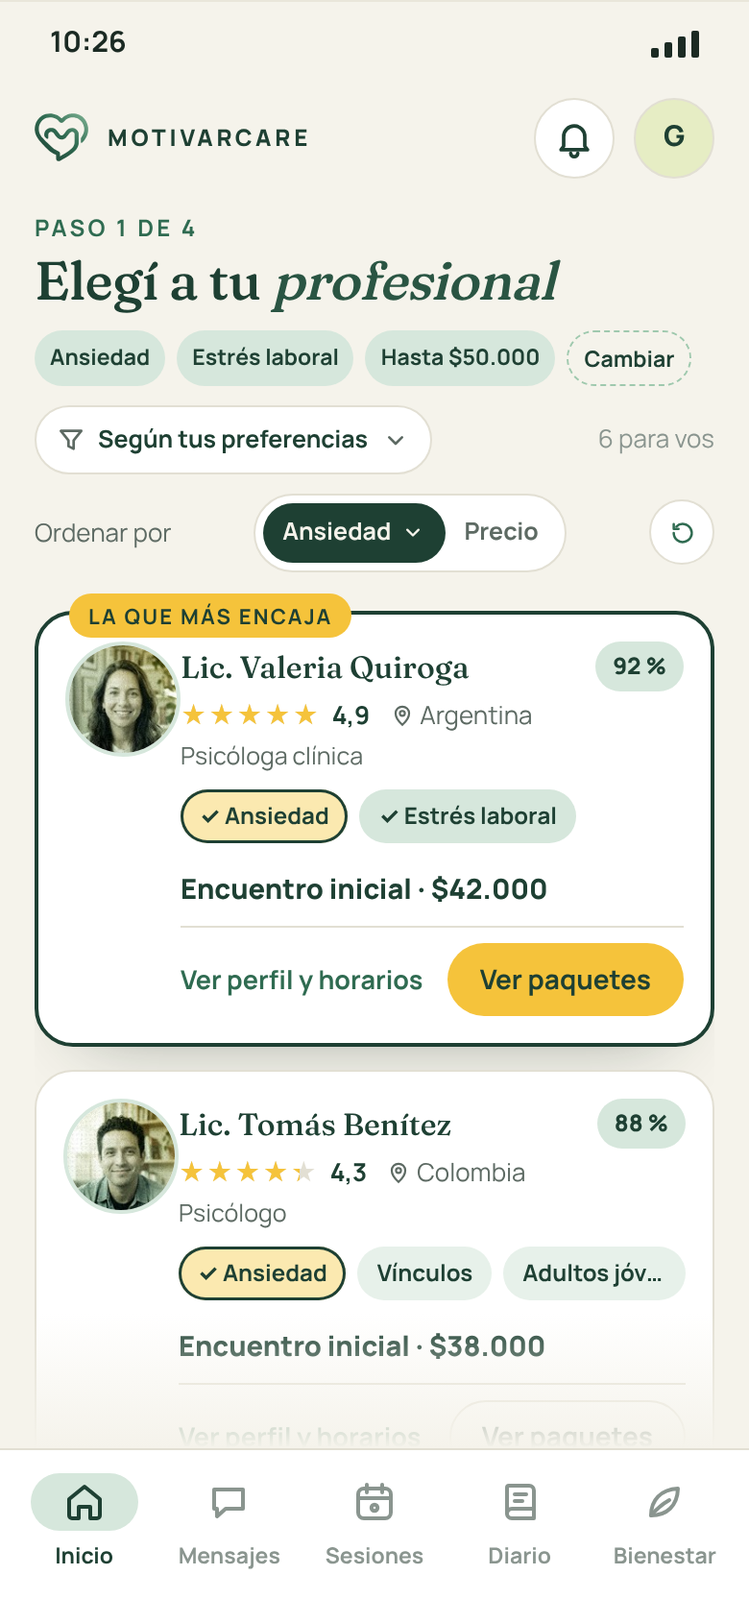
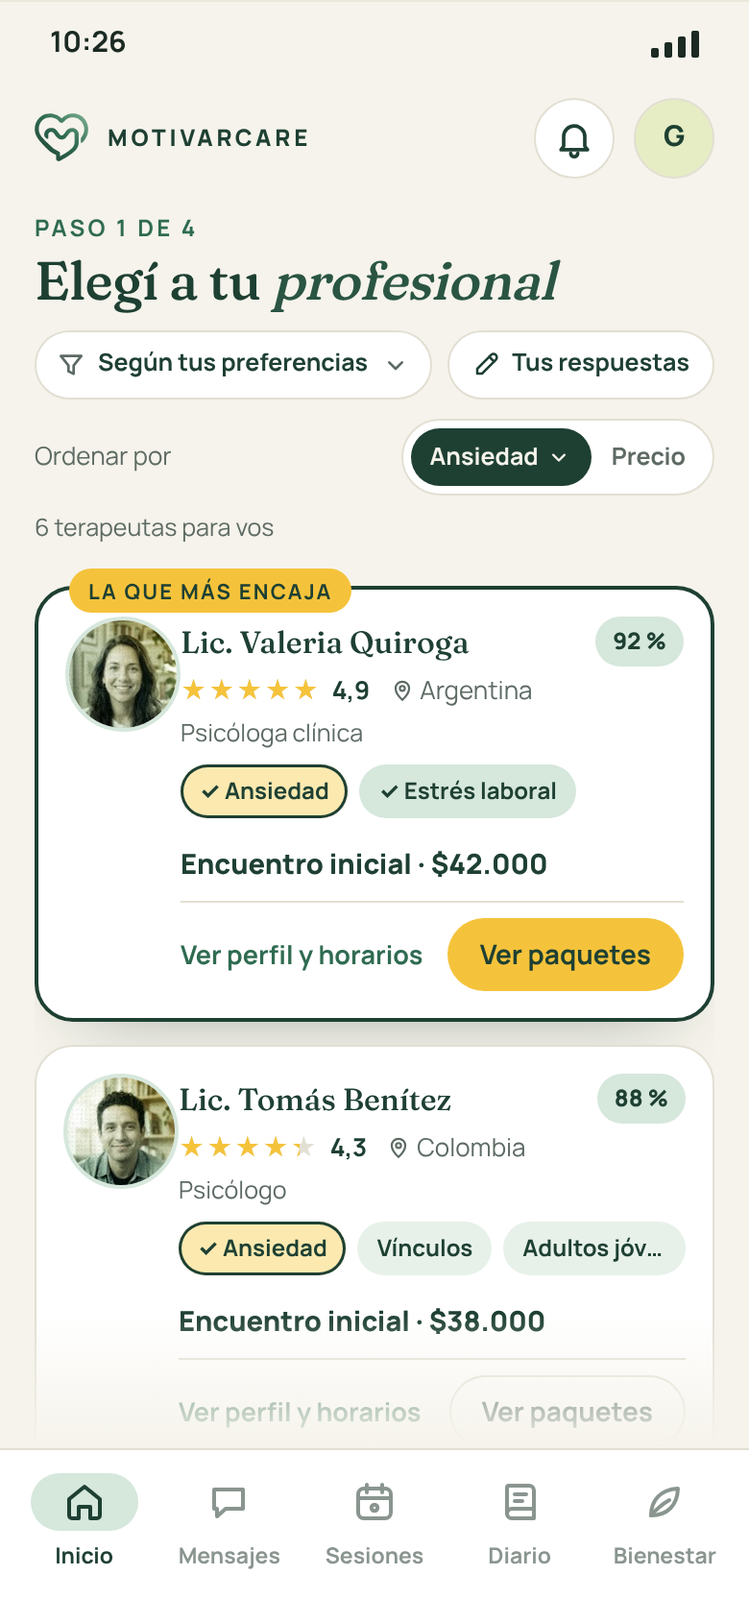
Ronda #2: Buscador sin «Limpiar», cantidad sobre las tarjetas y «Tus respuestas» en el teléfono
Claude-Session: https://claude.ai/code/session_01WU1DRuLLvKJwMVuiPWLics

Changed region(s): [[0.0308, 0.1846, 0.9538, 0.8923], [0.7692, 0.3692, 0.9538, 0.4308], [0.9231, 0.2462, 0.9538, 0.2769]]

diff --git a/web/public/app-usuario/ronda-2.html b/web/public/app-usuario/ronda-2.html
@@ -844,6 +844,10 @@ ul.lista-simple { padding: 0; }
 .limpiar.off { color: var(--tinta-tenue); opacity: .55; }
 .limpiar.solo-ico { width: 34px; height: 34px; justify-content: center; border-radius: 50%; border: 1px solid var(--linea); background: var(--superficie); flex: none; }
 .filtro-wrap { position: relative; display: inline-flex; }
+.cuenta-lista { font-size: 13px; color: var(--tinta-suave); margin: -4px 0 12px; }
+.tel .cuenta-lista { margin: -2px 0 0; font-size: 12.5px; }
+.mis-resp { display: inline-flex; align-items: center; gap: 6px; height: 36px; padding: 0 12px; border-radius: 99px; border: 1px solid var(--linea); background: var(--superficie); font-size: 12.5px; font-weight: 700; color: var(--bosque); white-space: nowrap; text-decoration: none; flex: none; }
+.mis-resp .ico { width: 15px; height: 15px; }
 .op-esp.elegida-sutil .radio { border-color: var(--bosque); }
 .op-esp.elegida-sutil .radio::after { content: ''; width: 8px; height: 8px; border-radius: 50%; background: var(--bosque); }
 .el-barra.r2 { flex-wrap: nowrap; }
@@ -891,6 +895,7 @@ ul.lista-simple { padding: 0; }
   <symbol id="i-check" viewBox="0 0 24 24"><path d="m5 12.5 4.5 4.5L19 7.5"/></symbol>
   <symbol id="i-atras" viewBox="0 0 24 24"><path d="M15 6l-6 6 6 6"/></symbol>
   <symbol id="i-limpiar" viewBox="0 0 24 24"><path d="M4.5 12a7.5 7.5 0 1 0 2.2-5.3"/><path d="M4.5 4.5v4h4"/></symbol>
+  <symbol id="i-editar" viewBox="0 0 24 24"><path d="M4 20h4L19.5 8.5a2.1 2.1 0 0 0-4-4L4 16z"/><path d="M14 6l4 4"/></symbol>
   <symbol id="i-cerrar" viewBox="0 0 24 24"><path d="M6 6l12 12M18 6 6 18"/></symbol>
   <symbol id="i-clip" viewBox="0 0 24 24"><path d="M19 11.5 12 18.5a4.5 4.5 0 0 1-6.4-6.4l7.4-7.4a3 3 0 0 1 4.2 4.2l-7.4 7.4a1.5 1.5 0 0 1-2.1-2.1l6.7-6.7"/></symbol>
   <symbol id="i-mic" viewBox="0 0 24 24"><rect x="9" y="3.5" width="6" height="11" rx="3"/><path d="M5.5 11.5a6.5 6.5 0 0 0 13 0M12 18v2.5"/></symbol>
@@ -1677,11 +1682,11 @@ ul.lista-simple { padding: 0; }
         <div>
           <div class="el-barra r2">
             
-            <span class="filtro-wrap"><span class="filtro"><svg viewBox="0 0 24 24" class="ico chico"><path d="M4 5h16l-6 7.5V19l-4-2v-4.5z"/></svg>Filtrar: <b>Según tus preferencias</b><svg class="ico chico"><use href="#i-abajo"/></svg></span><div class="menu-esp menu-filtro"><span class="menu-tit">Filtrar por tipo y enfoque</span><span class="op-esp elegida-sutil"><i class="radio"></i><span><b>Según tus preferencias</b><small>Tiene en cuenta el tipo y enfoque que elegiste</small></span></span><span class="sep-esp">Sumá una terapia complementaria</span><span class="op-esp"><i class="radio"></i>Terapia de pareja</span><span class="sep-esp">¿Querés probar otro enfoque?</span><span class="op-esp"><i class="radio"></i>Psicodinámico o psicoanalítico</span><span class="op-esp"><i class="radio"></i>Humanista</span><span class="op-esp"><i class="radio"></i>Sistémico o familiar</span><span class="nota-esp">Se elige una sola opción, y es la que muestra el control. Los terapeutas que no coinciden no se muestran. Para dar prioridad a una especialidad, usá "Ordenar por".</span></div></span><span class="tenue cuenta-res">6 terapeutas</span><a class="limpiar off" title="No hay nada para limpiar"><svg class="ico chico"><use href="#i-limpiar"/></svg>Limpiar</a>
+            <span class="filtro-wrap"><span class="filtro"><svg viewBox="0 0 24 24" class="ico chico"><path d="M4 5h16l-6 7.5V19l-4-2v-4.5z"/></svg>Filtrar: <b>Según tus preferencias</b><svg class="ico chico"><use href="#i-abajo"/></svg></span><div class="menu-esp menu-filtro"><span class="menu-tit">Filtrar por tipo y enfoque</span><span class="op-esp elegida-sutil"><i class="radio"></i><span><b>Según tus preferencias</b><small>Tiene en cuenta el tipo y enfoque que elegiste</small></span></span><span class="sep-esp">Sumá una terapia complementaria</span><span class="op-esp"><i class="radio"></i>Terapia de pareja</span><span class="sep-esp">¿Querés probar otro enfoque?</span><span class="op-esp"><i class="radio"></i>Psicodinámico o psicoanalítico</span><span class="op-esp"><i class="radio"></i>Humanista</span><span class="op-esp"><i class="radio"></i>Sistémico o familiar</span><span class="nota-esp">Se elige una sola opción, y es la que muestra el control. Los terapeutas que no coinciden no se muestran. Para dar prioridad a una especialidad, usá "Ordenar por".</span></div></span>
             <span class="orden-wrap"><span class="et-orden">Ordenar por</span><span class="el-orden"><span class="on">Compatibilidad<svg class="ico chico cl"><use href="#i-abajo"/></svg></span><span>Precio</span></span>
             </span>
           </div>
-          <div style="position:relative"><div class="el-lista"><article class="tarjeta-pro mejor"><span class="mejor-et">La que más encaja</span><img class="avatar-pro" src="../landing/img/profesionales/valeria-quiroga.jpg" alt="" width="60" height="60">
+          <p class="cuenta-lista">6 terapeutas · todos con matrícula verificada</p><div style="position:relative"><div class="el-lista"><article class="tarjeta-pro mejor"><span class="mejor-et">La que más encaja</span><img class="avatar-pro" src="../landing/img/profesionales/valeria-quiroga.jpg" alt="" width="60" height="60">
   <div class="info">
     <div class="nombre"><b>Lic. Valeria Quiroga</b><span class="compat">92 %</span></div>
     <div class="valoracion"><span class="estrellas" style="--v: 98%"><i>★★★★★</i><i>★★★★★</i></span><b>4,9</b><span class="pais"><svg viewBox="0 0 24 24"><path d="M12 21s-6.5-5.6-6.5-11a6.5 6.5 0 0 1 13 0c0 5.4-6.5 11-6.5 11z"/><circle cx="12" cy="10" r="2.4"/></svg>Argentina</span><span class="exp-l">· 9 años de experiencia</span></div>
@@ -1763,10 +1768,10 @@ ul.lista-simple { padding: 0; }
   </div>
   <div class="cuerpo-tel" style="gap:10px">
     <div class="saludo" style="margin:0;gap:4px"><span class="t-fecha">Paso 1 de 4</span><h1 class="t1" style="font-size:28px">Elegí a tu <em>profesional</em></h1></div>
-    <div class="el-tags" style="flex-wrap:nowrap"><span>Ansiedad</span><span>Estrés laboral</span><span>Hasta $50.000</span><span style="background:transparent;border:1.5px dashed var(--salvia-fuerte)">Cambiar</span></div>
-    <div class="fila-ctl"><span class="filtro"><svg viewBox="0 0 24 24" class="ico chico"><path d="M4 5h16l-6 7.5V19l-4-2v-4.5z"/></svg><b>Según tus preferencias</b><svg class="ico chico"><use href="#i-abajo"/></svg></span><span class="tenue">6 para vos</span></div>
-    <div class="fila-ctl"><span class="et-orden">Ordenar por</span><span class="el-orden"><span class="on">Compatibilidad<svg class="ico chico"><use href="#i-abajo"/></svg></span><span>Precio</span></span><a class="limpiar off solo-ico" aria-label="Limpiar"><svg class="ico chico"><use href="#i-limpiar"/></svg></a></div>
-    <div class="el-lista-tel"><article class="tarjeta-pro mejor"><span class="mejor-et">La que más encaja</span><img class="avatar-pro" src="../landing/img/profesionales/valeria-quiroga.jpg" alt="" width="60" height="60">
+    
+    <div class="fila-ctl"><span class="filtro"><svg viewBox="0 0 24 24" class="ico chico"><path d="M4 5h16l-6 7.5V19l-4-2v-4.5z"/></svg><b>Según tus preferencias</b><svg class="ico chico"><use href="#i-abajo"/></svg></span><a class="mis-resp"><svg class="ico chico"><use href="#i-editar"/></svg>Tus respuestas</a></div>
+    <div class="fila-ctl"><span class="et-orden">Ordenar por</span><span class="el-orden"><span class="on">Compatibilidad<svg class="ico chico"><use href="#i-abajo"/></svg></span><span>Precio</span></span></div>
+    <p class="cuenta-lista">6 terapeutas para vos</p><div class="el-lista-tel"><article class="tarjeta-pro mejor"><span class="mejor-et">La que más encaja</span><img class="avatar-pro" src="../landing/img/profesionales/valeria-quiroga.jpg" alt="" width="60" height="60">
   <div class="info">
     <div class="nombre"><b>Lic. Valeria Quiroga</b><span class="compat">92 %</span></div>
     <div class="valoracion"><span class="estrellas" style="--v: 98%"><i>★★★★★</i><i>★★★★★</i></span><b>4,9</b><span class="pais"><svg viewBox="0 0 24 24"><path d="M12 21s-6.5-5.6-6.5-11a6.5 6.5 0 0 1 13 0c0 5.4-6.5 11-6.5 11z"/><circle cx="12" cy="10" r="2.4"/></svg>Argentina</span><span class="exp-l">· 9 años de experiencia</span></div>
@@ -1838,12 +1843,12 @@ ul.lista-simple { padding: 0; }
         <div>
           <div class="el-barra r2">
             
-            <span class="filtro-wrap"><span class="filtro"><svg viewBox="0 0 24 24" class="ico chico"><path d="M4 5h16l-6 7.5V19l-4-2v-4.5z"/></svg>Filtrar: <b>Según tus preferencias</b><svg class="ico chico"><use href="#i-abajo"/></svg></span></span><span class="tenue cuenta-res">6 terapeutas</span><a class="limpiar"><svg class="ico chico"><use href="#i-limpiar"/></svg>Limpiar</a>
+            <span class="filtro-wrap"><span class="filtro"><svg viewBox="0 0 24 24" class="ico chico"><path d="M4 5h16l-6 7.5V19l-4-2v-4.5z"/></svg>Filtrar: <b>Según tus preferencias</b><svg class="ico chico"><use href="#i-abajo"/></svg></span></span>
             <span class="orden-wrap"><span class="et-orden">Ordenar por</span><span class="el-orden"><span class="on">Ansiedad<svg class="ico chico cl"><use href="#i-abajo"/></svg></span><span>Precio</span></span>
               <div class="menu-esp"><span class="menu-tit">Ordenar por compatibilidad</span><span class="op-esp"><i class="radio"></i><span><b>Según todas tus respuestas</b><small>Tiene en cuenta todo lo que nos contaste</small></span></span><span class="sep-esp">Dando prioridad a una especialidad · de tus respuestas</span><span class="op-esp on"><i class="radio"></i><b>Ansiedad</b></span><span class="op-esp"><i class="radio"></i><b>Estrés laboral</b></span><span class="sep-esp">Otras especialidades</span><span class="op-esp"><i class="radio"></i>Autoestima</span><span class="op-esp"><i class="radio"></i>Depresión</span><span class="op-esp"><i class="radio"></i>Duelo</span><span class="op-esp"><i class="radio"></i>Mindfulness y relajación</span><span class="op-esp"><i class="radio"></i>Sueño y descanso</span><span class="op-esp"><i class="radio"></i>Vínculos y pareja</span><span class="nota-esp">No es un filtro: los terapeutas de esa especialidad aparecen primero y los demás siguen en la lista. Al ordenar por precio, no se tiene en cuenta.</span></div>
             </span>
           </div>
-          <div style="position:relative"><div class="el-lista"><article class="tarjeta-pro mejor"><span class="mejor-et">La que más encaja</span><img class="avatar-pro" src="../landing/img/profesionales/valeria-quiroga.jpg" alt="" width="60" height="60">
+          <p class="cuenta-lista">6 terapeutas · todos con matrícula verificada</p><div style="position:relative"><div class="el-lista"><article class="tarjeta-pro mejor"><span class="mejor-et">La que más encaja</span><img class="avatar-pro" src="../landing/img/profesionales/valeria-quiroga.jpg" alt="" width="60" height="60">
   <div class="info">
     <div class="nombre"><b>Lic. Valeria Quiroga</b><span class="compat">92 %</span></div>
     <div class="valoracion"><span class="estrellas" style="--v: 98%"><i>★★★★★</i><i>★★★★★</i></span><b>4,9</b><span class="pais"><svg viewBox="0 0 24 24"><path d="M12 21s-6.5-5.6-6.5-11a6.5 6.5 0 0 1 13 0c0 5.4-6.5 11-6.5 11z"/><circle cx="12" cy="10" r="2.4"/></svg>Argentina</span><span class="exp-l">· 9 años de experiencia</span></div>
@@ -1925,10 +1930,10 @@ ul.lista-simple { padding: 0; }
   </div>
   <div class="cuerpo-tel" style="gap:10px">
     <div class="saludo" style="margin:0;gap:4px"><span class="t-fecha">Paso 1 de 4</span><h1 class="t1" style="font-size:28px">Elegí a tu <em>profesional</em></h1></div>
-    <div class="el-tags" style="flex-wrap:nowrap"><span>Ansiedad</span><span>Estrés laboral</span><span>Hasta $50.000</span><span style="background:transparent;border:1.5px dashed var(--salvia-fuerte)">Cambiar</span></div>
-    <div class="fila-ctl"><span class="filtro"><svg viewBox="0 0 24 24" class="ico chico"><path d="M4 5h16l-6 7.5V19l-4-2v-4.5z"/></svg><b>Según tus preferencias</b><svg class="ico chico"><use href="#i-abajo"/></svg></span><span class="tenue">6 para vos</span></div>
-    <div class="fila-ctl"><span class="et-orden">Ordenar por</span><span class="el-orden"><span class="on">Ansiedad<svg class="ico chico"><use href="#i-abajo"/></svg></span><span>Precio</span></span><a class="limpiar solo-ico" aria-label="Limpiar"><svg class="ico chico"><use href="#i-limpiar"/></svg></a></div>
-    <div class="el-lista-tel"><article class="tarjeta-pro mejor"><span class="mejor-et">La que más encaja</span><img class="avatar-pro" src="../landing/img/profesionales/valeria-quiroga.jpg" alt="" width="60" height="60">
+    
+    <div class="fila-ctl"><span class="filtro"><svg viewBox="0 0 24 24" class="ico chico"><path d="M4 5h16l-6 7.5V19l-4-2v-4.5z"/></svg><b>Según tus preferencias</b><svg class="ico chico"><use href="#i-abajo"/></svg></span><a class="mis-resp"><svg class="ico chico"><use href="#i-editar"/></svg>Tus respuestas</a></div>
+    <div class="fila-ctl"><span class="et-orden">Ordenar por</span><span class="el-orden"><span class="on">Ansiedad<svg class="ico chico"><use href="#i-abajo"/></svg></span><span>Precio</span></span></div>
+    <p class="cuenta-lista">6 terapeutas para vos</p><div class="el-lista-tel"><article class="tarjeta-pro mejor"><span class="mejor-et">La que más encaja</span><img class="avatar-pro" src="../landing/img/profesionales/valeria-quiroga.jpg" alt="" width="60" height="60">
   <div class="info">
     <div class="nombre"><b>Lic. Valeria Quiroga</b><span class="compat">92 %</span></div>
     <div class="valoracion"><span class="estrellas" style="--v: 98%"><i>★★★★★</i><i>★★★★★</i></span><b>4,9</b><span class="pais"><svg viewBox="0 0 24 24"><path d="M12 21s-6.5-5.6-6.5-11a6.5 6.5 0 0 1 13 0c0 5.4-6.5 11-6.5 11z"/><circle cx="12" cy="10" r="2.4"/></svg>Argentina</span><span class="exp-l">· 9 años de experiencia</span></div>
@@ -2069,12 +2074,12 @@ ul.lista-simple { padding: 0; }
         <div>
           <div class="el-barra r2">
             
-            <span class="filtro-wrap"><span class="filtro"><svg viewBox="0 0 24 24" class="ico chico"><path d="M4 5h16l-6 7.5V19l-4-2v-4.5z"/></svg>Filtrar: <b>Según tus preferencias</b><svg class="ico chico"><use href="#i-abajo"/></svg></span></span><a class="limpiar"><svg class="ico chico"><use href="#i-limpiar"/></svg>Limpiar</a>
+            <span class="filtro-wrap"><span class="filtro"><svg viewBox="0 0 24 24" class="ico chico"><path d="M4 5h16l-6 7.5V19l-4-2v-4.5z"/></svg>Filtrar: <b>Según tus preferencias</b><svg class="ico chico"><use href="#i-abajo"/></svg></span></span>
             <span class="orden-wrap"><span class="et-orden">Ordenar por</span><span class="el-orden"><span class="on">Mindfulness y relajación<svg class="ico chico cl"><use href="#i-abajo"/></svg></span><span>Precio</span></span>
               
             </span>
           </div>
-          <div style="position:relative"><div class="el-lista"><article class="tarjeta-pro mejor"><span class="mejor-et">La que más encaja</span><span class="avatar-pro ini" style="font-size:17px">PR</span>
+          <p class="cuenta-lista">5 terapeutas · sin contar a Valeria</p><div style="position:relative"><div class="el-lista"><article class="tarjeta-pro mejor"><span class="mejor-et">La que más encaja</span><span class="avatar-pro ini" style="font-size:17px">PR</span>
   <div class="info">
     <div class="nombre"><b>Lic. Paula Ríos</b><span class="compat">86 %</span></div>
     <div class="valoracion"><span class="estrellas" style="--v: 96%"><i>★★★★★</i><i>★★★★★</i></span><b>4,8</b><span class="pais"><svg viewBox="0 0 24 24"><path d="M12 21s-6.5-5.6-6.5-11a6.5 6.5 0 0 1 13 0c0 5.4-6.5 11-6.5 11z"/><circle cx="12" cy="10" r="2.4"/></svg>Uruguay</span><span class="exp-l">· 7 años de experiencia</span></div>
@@ -2144,10 +2149,10 @@ ul.lista-simple { padding: 0; }
   </div>
   <div class="cuerpo-tel" style="gap:10px">
     <a class="volver-tel"><svg class="ico chico"><use href="#i-atras"/></svg>Volver al inicio</a><div class="saludo" style="margin:0;gap:4px"><span class="t-fecha">Para complementar tu proceso</span><h1 class="t1" style="font-size:28px">Sumá un <em>terapeuta</em></h1></div>
-    <div class="el-tags" style="flex-wrap:nowrap"><span class="tag-foco">Mindfulness y relajación</span><span>Individual</span><span>Ansiedad</span><span>Estrés laboral</span></div>
-    <div class="fila-ctl"><span class="filtro"><svg viewBox="0 0 24 24" class="ico chico"><path d="M4 5h16l-6 7.5V19l-4-2v-4.5z"/></svg><b>Según tus preferencias</b><svg class="ico chico"><use href="#i-abajo"/></svg></span><span class="tenue">5 para vos</span></div>
-    <div class="fila-ctl"><span class="et-orden">Ordenar por</span><span class="el-orden"><span class="on">Mindfulness y relajación<svg class="ico chico"><use href="#i-abajo"/></svg></span><span>Precio</span></span><a class="limpiar solo-ico" aria-label="Limpiar"><svg class="ico chico"><use href="#i-limpiar"/></svg></a></div>
-    <div class="el-lista-tel"><article class="tarjeta-pro mejor"><span class="mejor-et">La que más encaja</span><span class="avatar-pro ini" style="font-size:17px">PR</span>
+    
+    <div class="fila-ctl"><span class="filtro"><svg viewBox="0 0 24 24" class="ico chico"><path d="M4 5h16l-6 7.5V19l-4-2v-4.5z"/></svg><b>Según tus preferencias</b><svg class="ico chico"><use href="#i-abajo"/></svg></span><a class="mis-resp"><svg class="ico chico"><use href="#i-editar"/></svg>Tus respuestas</a></div>
+    <div class="fila-ctl"><span class="et-orden">Ordenar por</span><span class="el-orden"><span class="on">Mindfulness y relajación<svg class="ico chico"><use href="#i-abajo"/></svg></span><span>Precio</span></span></div>
+    <p class="cuenta-lista">5 terapeutas · sin contar a Valeria</p><div class="el-lista-tel"><article class="tarjeta-pro mejor"><span class="mejor-et">La que más encaja</span><span class="avatar-pro ini" style="font-size:17px">PR</span>
   <div class="info">
     <div class="nombre"><b>Lic. Paula Ríos</b><span class="compat">86 %</span></div>
     <div class="valoracion"><span class="estrellas" style="--v: 96%"><i>★★★★★</i><i>★★★★★</i></span><b>4,8</b><span class="pais"><svg viewBox="0 0 24 24"><path d="M12 21s-6.5-5.6-6.5-11a6.5 6.5 0 0 1 13 0c0 5.4-6.5 11-6.5 11z"/><circle cx="12" cy="10" r="2.4"/></svg>Uruguay</span><span class="exp-l">· 7 años de experiencia</span></div>
@@ -2176,7 +2181,7 @@ ul.lista-simple { padding: 0; }
   </div>
 </article></div>
   </div>
-  <div class="velo"></div><div class="hoja-buscar"><div class="hoja-cab"><b>Ordenar por compatibilidad</b><svg class="ico"><use href="#i-cerrar"/></svg></div><span class="op-esp"><i class="radio"></i><span><b>Según todas tus respuestas</b><small>Tiene en cuenta todo lo que nos contaste</small></span></span><span class="sep-esp">Dando prioridad a una especialidad · de tus respuestas</span><span class="op-esp"><i class="radio"></i><b>Ansiedad</b></span><span class="op-esp"><i class="radio"></i><b>Estrés laboral</b></span><span class="sep-esp">Otras especialidades</span><span class="op-esp"><i class="radio"></i>Autoestima</span><span class="op-esp"><i class="radio"></i>Depresión</span><span class="op-esp"><i class="radio"></i>Duelo</span><span class="op-esp on"><i class="radio"></i>Mindfulness y relajación</span><span class="op-esp"><i class="radio"></i>Sueño y descanso</span><span class="op-esp"><i class="radio"></i>Vínculos y pareja</span><span class="nota-esp">No es un filtro: los terapeutas de esa especialidad aparecen primero y los demás siguen en la lista. Al ordenar por precio, no se tiene en cuenta.</span><div class="hoja-pie"><a class="enlace"><svg class="ico chico"><use href="#i-limpiar"/></svg>Limpiar</a><a class="boton bosque">Listo</a></div></div><nav class="nav-tel">
+  <div class="velo"></div><div class="hoja-buscar"><div class="hoja-cab"><b>Ordenar por compatibilidad</b><svg class="ico"><use href="#i-cerrar"/></svg></div><span class="op-esp"><i class="radio"></i><span><b>Según todas tus respuestas</b><small>Tiene en cuenta todo lo que nos contaste</small></span></span><span class="sep-esp">Dando prioridad a una especialidad · de tus respuestas</span><span class="op-esp"><i class="radio"></i><b>Ansiedad</b></span><span class="op-esp"><i class="radio"></i><b>Estrés laboral</b></span><span class="sep-esp">Otras especialidades</span><span class="op-esp"><i class="radio"></i>Autoestima</span><span class="op-esp"><i class="radio"></i>Depresión</span><span class="op-esp"><i class="radio"></i>Duelo</span><span class="op-esp on"><i class="radio"></i>Mindfulness y relajación</span><span class="op-esp"><i class="radio"></i>Sueño y descanso</span><span class="op-esp"><i class="radio"></i>Vínculos y pareja</span><span class="nota-esp">No es un filtro: los terapeutas de esa especialidad aparecen primero y los demás siguen en la lista. Al ordenar por precio, no se tiene en cuenta.</span><div class="hoja-pie"><a class="boton bosque ancho">Listo</a></div></div><nav class="nav-tel">
     <a class="activo"><span class="pastilla" style="position:relative"><svg class="ico"><use href="#i-inicio"/></svg></span>Inicio</a>
     <a><span class="pastilla" style="position:relative"><svg class="ico"><use href="#i-chat"/></svg></span>Mensajes</a>
     <a><span class="pastilla" style="position:relative"><svg class="ico"><use href="#i-sesiones"/></svg></span>Sesiones</a>

diff --git a/06-app-usuario/historial/ronda-2.md b/06-app-usuario/historial/ronda-2.md
@@ -100,7 +100,8 @@ Cada mockup se hace en escritorio (1440 × 1024) y en teléfono (390 de ancho). 
     <p>Cómo se ve al llegar, sin cambiar nada:</p>
     <ul>
       <li>"Filtrar: Según tus preferencias", con el menú abierto: el tipo de terapia y el enfoque.</li>
-      <li>"Ordenar por: Compatibilidad", con "Según todas tus respuestas" elegido, y "Limpiar" apagado porque no hay nada que limpiar.</li>
+      <li>"Ordenar por: Compatibilidad", con "Según todas tus respuestas" elegido. Debajo, la cantidad de terapeutas.</li>
+      <li>En el teléfono, "Tus respuestas" al lado del filtro, en lugar de las pills.</li>
     </ul>
     <a class="boton-ver" href="/app-usuario/ronda-2.html#r2-5-escritorio">Ver en tamaño real →</a>
   </div>
@@ -115,7 +116,6 @@ Cada mockup se hace en escritorio (1440 × 1024) y en teléfono (390 de ancho). 
     <ul>
       <li>Dos criterios de orden: <strong>compatibilidad</strong> y <strong>precio</strong>. Al elegir una especialidad en el menú de compatibilidad, el control pasa a decir su nombre ("Ansiedad") y sus terapeutas van primero, sin filtrar.</li>
       <li>El filtro <strong>"Filtrar"</strong>, por tipo de terapia y enfoque, que por defecto dice "Según tus preferencias".</li>
-      <li>"<strong>Limpiar</strong>", que vuelve el filtro y el orden a su estado inicial.</li>
     </ul>
     <a class="boton-ver" href="/app-usuario/ronda-2.html#r2-6-escritorio">Ver en tamaño real →</a>
   </div>
@@ -129,9 +129,9 @@ Cada mockup se hace en escritorio (1440 × 1024) y en teléfono (390 de ancho). 
     <p>El mismo Buscador de profesionales, abierto desde el Inicio con los criterios ya cargados. En el ejemplo, la persona tocó "Mindfulness y relajación":</p>
     <ul>
       <li>"Volver al inicio", "Para complementar tu proceso" y el título "Sumá un terapeuta". Valeria no aparece en la lista.</li>
-      <li>"Ordenar por" dice "Mindfulness y relajación" y "Limpiar" está activo.</li>
+      <li>"Ordenar por" dice "Mindfulness y relajación".</li>
       <li>A la derecha, "Lo que buscás": lo elegido, tu terapeuta actual y tus respuestas.</li>
-      <li>En el teléfono, el menú de orden se abre como hoja desde abajo, con "Limpiar" y "Listo".</li>
+      <li>En el teléfono, el menú de orden se abre como hoja desde abajo, con "Listo".</li>
     </ul>
     <a class="boton-ver" href="/app-usuario/ronda-2.html#r2-6-complementar-escritorio">Ver en tamaño real →</a>
   </div>
@@ -256,7 +256,7 @@ Combina la familia 2 (la agenda y la sesión mandan) con la posibilidad de traba
 
 Toma como punto de partida la elección de profesional de la familia 2 ([Ronda #1](/06-app-usuario/historial/ronda-1/)), con la navegación de esta ronda. Es el paso 1 de la primera sesión, al que se llega desde "Ver terapeutas" en el Inicio sin profesional (mockup 3). El título es "Elegí a tu profesional"; por ahora todos son terapeutas (el filtro por rubro se sacó el 14/11). Son dos mockups del mismo listado: el **5**, como se ve la primera vez, sin cambiar el orden ni el filtro, y el **6**, con prioridad a una especialidad.
 
-- **"Lo que nos contaste"** se mantiene a la derecha: las respuestas del cuestionario agrupadas (qué querés trabajar, tu experiencia, tus preferencias y tu presupuesto) y "Cambiar mis respuestas". En el teléfono, las respuestas van arriba como pills, con "Cambiar".
+- **"Lo que nos contaste"** se mantiene a la derecha: las respuestas del cuestionario agrupadas (qué querés trabajar, tu experiencia, tus preferencias y tu presupuesto) y "Cambiar mis respuestas". En el teléfono no se muestran como pills (no entraban todas y ocupaban lugar): al lado del filtro está el botón "**Tus respuestas**", que abre el resumen y permite cambiarlas.
 - **Ordenar por: Compatibilidad ▾ · Precio.** La especialidad no es un criterio aparte: es una forma de la compatibilidad, y **el menú de "Compatibilidad" es el único lugar para elegirla**.
   - **Por defecto**, el control dice "Compatibilidad" y dentro del menú está elegido "Según todas tus respuestas".
   - **Si la persona elige una especialidad** en el menú (solo una), el control deja de decir "Compatibilidad" y pasa a decir el nombre de la especialidad ("Ansiedad"). No hace falta aclarar "primero": la etiqueta de la izquierda ya dice "Ordenar por", no "Filtrar". Los terapeutas que la trabajan aparecen primero, ordenados por compatibilidad, y debajo, con el separador "Otros terapeutas para vos", los demás. Nadie desaparece de la lista y el porcentaje de cada tarjeta no cambia.
@@ -265,7 +265,7 @@ Toma como punto de partida la elección de profesional de la familia 2 ([Ronda #
   - **Al ordenar por precio**, la especialidad elegida no se tiene en cuenta: el precio ordena a todos por igual.
   - **Mockup 5:** el estado por defecto (en el escritorio, con el menú de "Filtrar" abierto). **Mockup 6:** con "Ansiedad" elegida; en el escritorio, con el menú de orden abierto.
 - **Filtro "Filtrar":** a la izquierda de "Ordenar por", en la misma fila, con el mismo comportamiento que "Ordenar por" (ver los ajustes del 14/11).
-- **"Limpiar"**, en la misma barra, vuelve el filtro y el orden a su estado inicial. Está apagado (gris) cuando no hay nada que limpiar; en el teléfono es solo el ícono.
+- **La cantidad de terapeutas** ("6 terapeutas · todos con matrícula verificada") va debajo de los controles, justo arriba de las tarjetas.
 - **Tarjetas de los terapeutas,** con las reglas de esta ronda:
   - La profesión en su propia línea ("Psicóloga clínica") y las especialidades en pills, en una sola línea. Las que coinciden con tus respuestas llevan "✓" y fondo salvia; la especialidad elegida para ordenar se resalta en amarillo suave con borde.
   - El precio es el del **encuentro inicial** ("Encuentro inicial · $42.000"), y el panel aclara que los paquetes se eligen después, con el terapeuta elegido.
@@ -286,11 +286,13 @@ El Buscador de profesionales puede abrirse desde el Cross-selling de profesional
   - Se elige **una sola opción**, y es la que muestra el control cerrado (por ejemplo, "Terapia de pareja").
   - "Lo que nos contaste" suma el grupo "Tipo y enfoque" (Terapia individual, Cognitivo-conductual).
   - A diferencia del orden, el filtro sí saca de la lista a quienes no coinciden; la nota del menú lo aclara y remite a "Ordenar por" para dar prioridad a una especialidad.
-- **"Limpiar"**, con un ícono de flecha circular, vuelve el filtro y el orden a su estado inicial.
 - **Desde el cross-selling:** "Terapia de pareja" abre el buscador con ese tipo en "Filtrar"; una especialidad, con ella en "Ordenar por"; "Ver otros enfoques", con el menú de "Filtrar" abierto en el enfoque.
 - **Nueva variante del mockup 6:** el buscador abierto desde "Mindfulness y relajación". Cambia el encabezado ("Volver al inicio", "Para complementar tu proceso", "Sumá un terapeuta"), la lista no incluye al terapeuta actual y el panel de la derecha pasa a ser "Lo que buscás", con lo elegido, el terapeuta actual y la aclaración de que cada terapeuta se contrata por separado, empezando con un encuentro inicial.
 - **Mockup 5:** con el menú de "Filtrar" abierto, para mostrar sus opciones.
-- **Sin el filtro por rubro.** Se saca "Mostrar: Terapeutas": por ahora no va a haber muchos profesionales de otros rubros y ocupaba un lugar innecesario. Así, "Filtrar", "Ordenar por", la cantidad de terapeutas y "Limpiar" entran en una sola fila en el escritorio.
+- **Sin el filtro por rubro.** Se saca "Mostrar: Terapeutas": por ahora no va a haber muchos profesionales de otros rubros y ocupaba un lugar innecesario. Así, "Filtrar" y "Ordenar por" entran en una sola fila en el escritorio.
+- **Sin "Limpiar"**: se probó al lado de los controles, pero no había espacio. Para volver al estado inicial, cada menú tiene arriba su opción por defecto ("Según tus preferencias" y "Según todas tus respuestas").
+- **La cantidad de terapeutas** pasa debajo de los controles, justo arriba de las tarjetas.
+- **En el teléfono, sin la fila de pills** de "Lo que nos contaste": no entraban todas y ocupaban lugar. Al lado del filtro va el botón "**Tus respuestas**" (con un lápiz), que abre el resumen y permite cambiarlas. Debajo, "Ordenar por" y la cantidad de terapeutas.
 
 ## 7 · Contratación: elegí tu paquete
 
@@ -335,7 +337,7 @@ Una de las decisiones de esta ronda es trabajar con **pocos componentes, robusto
 | [![Cabecera guía](/img/app-usuario/ronda-2/componentes/cabecera-guia.jpg)](/img/app-usuario/ronda-2/componentes/cabecera-guia.jpg) | **Cabecera guía** | Encabezar el Inicio con una tarjeta verde salvia que dice lo que la persona tiene que hacer ahora, con un único botón amarillo. Responde siempre "¿qué tengo que hacer ahora?". | Inicio con profesional (mockups 1, 2 y 4). | Sesión por empezar ("Entrar a la sesión", "Reprogramar"); sin turnos (próximos horarios libres y "Reservar sesión"). |
 | [![Primeros pasos](/img/app-usuario/ronda-2/componentes/primeros-pasos.jpg)](/img/app-usuario/ronda-2/componentes/primeros-pasos.jpg) | **Primeros pasos** | Guiar al usuario nuevo hacia su primera sesión: una tarjeta verde bosque con los cuatro pasos (el actual en amarillo, los pendientes punteados), "Ver terapeutas" y la aclaración de precios. | Inicio sin profesional (mockup 3). | — |
 | [![Ficha del profesional](/img/app-usuario/ronda-2/componentes/ficha-profesional.jpg)](/img/app-usuario/ronda-2/componentes/ficha-profesional.jpg) | **Ficha del profesional** | Decir siempre con quién se hace, se paga o se reserva: foto, nombre, calificación y país, especialidades, credenciales y acciones. En esta fase todos son terapeutas (en pantalla dice "Tu terapeuta"). | Inicio (mockups 1, 2 y 4), Buscador de profesionales (mockups 5 y 6), contratación (mockup 7) y reserva (mockup 8). | Completa (con el mensaje sin leer y las sesiones disponibles, con "Comprar más sesiones" cuando ya se usó la mitad del paquete, en verde bosque si queda 1 o ninguna; abajo, separados por una línea, "Escribile" y "Contanos cómo te va", de contorno con un corazón verde bosque; "Ver perfil" arriba a la derecha); con **selector de profesionales** (pastillas con avisos de sesiones y mensajes, el principal primero); resumida (dentro del Resumen de contratación); compacta (teléfono); **resultado de búsqueda** (en el Buscador de profesionales, con las especialidades que coinciden, el precio del encuentro inicial, "Ver perfil y horarios" y "Ver paquetes"). |
-| [![Buscador de profesionales](/img/app-usuario/ronda-2/componentes/buscador-profesionales.jpg)](/img/app-usuario/ronda-2/componentes/buscador-profesionales.jpg) | **Buscador de profesionales** | Encontrar y elegir un profesional: la lista de fichas (resultados de búsqueda), el orden por compatibilidad (con prioridad a una especialidad) o por precio, el filtro por tipo de terapia y enfoque ("Según tus preferencias" por defecto), "Limpiar" y el panel "Lo que nos contaste", con "Cambiar mis respuestas". | Elección de profesional (mockups 5 y 6), desde "Ver terapeutas" (mockup 3) o desde el Cross-selling de profesionales, con los filtros cargados. | Por defecto ("Compatibilidad", según todas tus respuestas) o con una especialidad elegida (el control dice su nombre); abierto desde el cross-selling ("Sumá un terapeuta", sin el terapeuta actual, con "Lo que buscás"); menús desplegables (escritorio) u hoja desde abajo (teléfono); escritorio (panel a la derecha) y teléfono (respuestas como pills). |
+| [![Buscador de profesionales](/img/app-usuario/ronda-2/componentes/buscador-profesionales.jpg)](/img/app-usuario/ronda-2/componentes/buscador-profesionales.jpg) | **Buscador de profesionales** | Encontrar y elegir un profesional: la lista de fichas (resultados de búsqueda), el orden por compatibilidad (con prioridad a una especialidad) o por precio, el filtro por tipo de terapia y enfoque ("Según tus preferencias" por defecto) y el panel "Lo que nos contaste", con "Cambiar mis respuestas". | Elección de profesional (mockups 5 y 6), desde "Ver terapeutas" (mockup 3) o desde el Cross-selling de profesionales, con los filtros cargados. | Por defecto ("Compatibilidad", según todas tus respuestas) o con una especialidad elegida (el control dice su nombre); abierto desde el cross-selling ("Sumá un terapeuta", sin el terapeuta actual, con "Lo que buscás"); menús desplegables (escritorio) u hoja desde abajo (teléfono); escritorio (panel a la derecha) y teléfono ("Tus respuestas" al lado del filtro). |
 | [![Selector de paquetes](/img/app-usuario/ronda-2/componentes/selector-paquetes.jpg)](/img/app-usuario/ronda-2/componentes/selector-paquetes.jpg) | **Selector de paquetes** | Elegir qué contratar con un profesional: el encuentro inicial o un paquete, con su precio, su ahorro y el precio por sesión, y la opción de usar un código de descuento. | Contratación (mockup 7), desde "Ver paquetes" o "Comprar más sesiones". | Primera vez con ese profesional (el encuentro inicial recomendado y elegido por defecto) o ya con sesiones previas (los paquetes primero). |
 | [![Resumen de contratación](/img/app-usuario/ronda-2/componentes/resumen-contratacion.jpg)](/img/app-usuario/ronda-2/componentes/resumen-contratacion.jpg) | **Resumen de contratación** | Responder, junto a la acción, con quién, qué y cuánto: contiene la Ficha del profesional (variante resumida), las aclaraciones del servicio (videollamada de 50 minutos y reprogramación sin costo hasta 24 h antes), el desglose y el total, y el botón amarillo con su aclaración. | Contratación (mockup 7) y reserva (mockup 8). | **Contratación** (desglose, total y "Continuar al pago", con "Es el monto exacto que vas a ver en el pago"); **reserva** ("Tu sesión" con el día y la hora elegidos, y "Reservar sesión", "Reservar y proceder al pago" o "Reprogramar sesión"); columna derecha (escritorio) o barra fija (teléfono). |
 | [![Agenda semanal resumida](/img/app-usuario/ronda-2/componentes/agenda-semanal.jpg)](/img/app-usuario/ronda-2/componentes/agenda-semanal.jpg) | **Agenda semanal resumida** | Mostrar de un vistazo la semana: sesiones, horarios libres, ejercicios y diario, con "Ver sesiones" para ir a la página de Sesiones. | Inicio con profesional (mockups 1, 2 y 4). | Un profesional o varios (cada uno con su color); con sesiones o con horarios libres punteados; escritorio (nombre y horario en cada día) y teléfono (foto o punto). |
